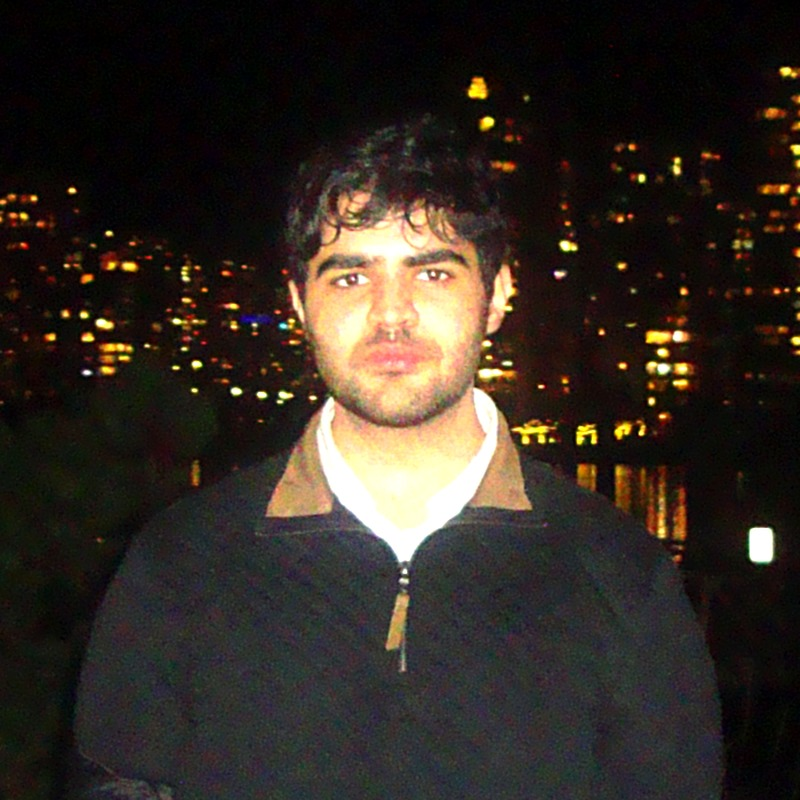
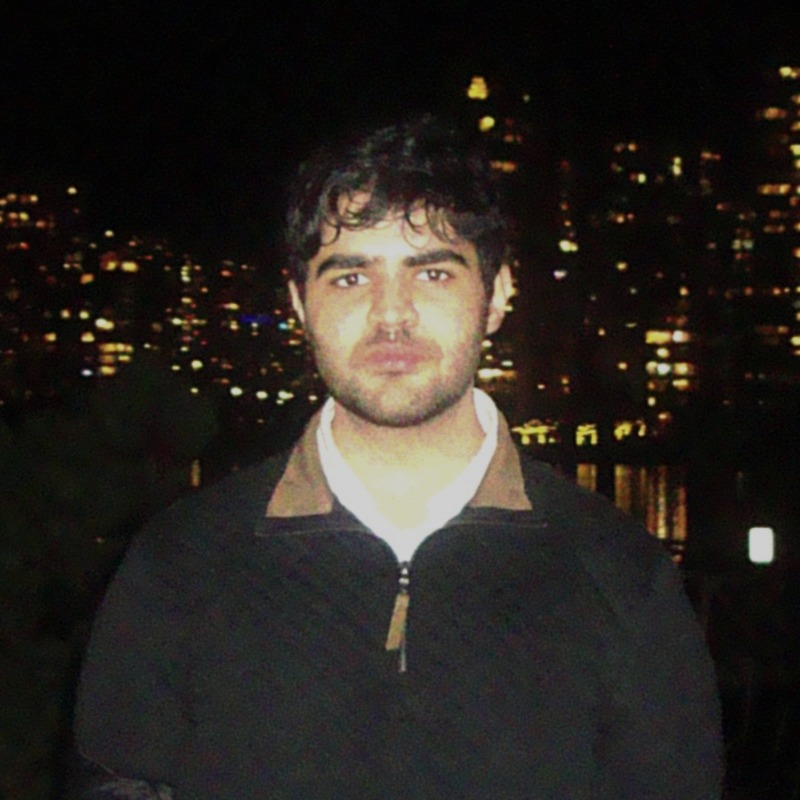
Tone down profile photo: less bright and saturated

diff --git a/index.html b/index.html
@@ -16,7 +16,7 @@
 
     <aside class="sidebar">
       <h1>Tarundeep Arora</h1>
-      <img class="portrait" src="assets/profile.jpg" alt="Tarundeep Arora" width="260" height="260" />
+      <img class="portrait" src="assets/profile.jpg?v=20261105" alt="Tarundeep Arora" width="260" height="260" />
       <p>Data Science student at Simon Fraser University (B.Sc., 2028), based in the Vancouver area. I build full-stack apps with React, Next.js and FastAPI, and dig into messy real-world data with Python, R, SQL and PySpark.</p>
       <p>Looking for a co-op term — winter or summer.</p>
       <p class="side-links">
